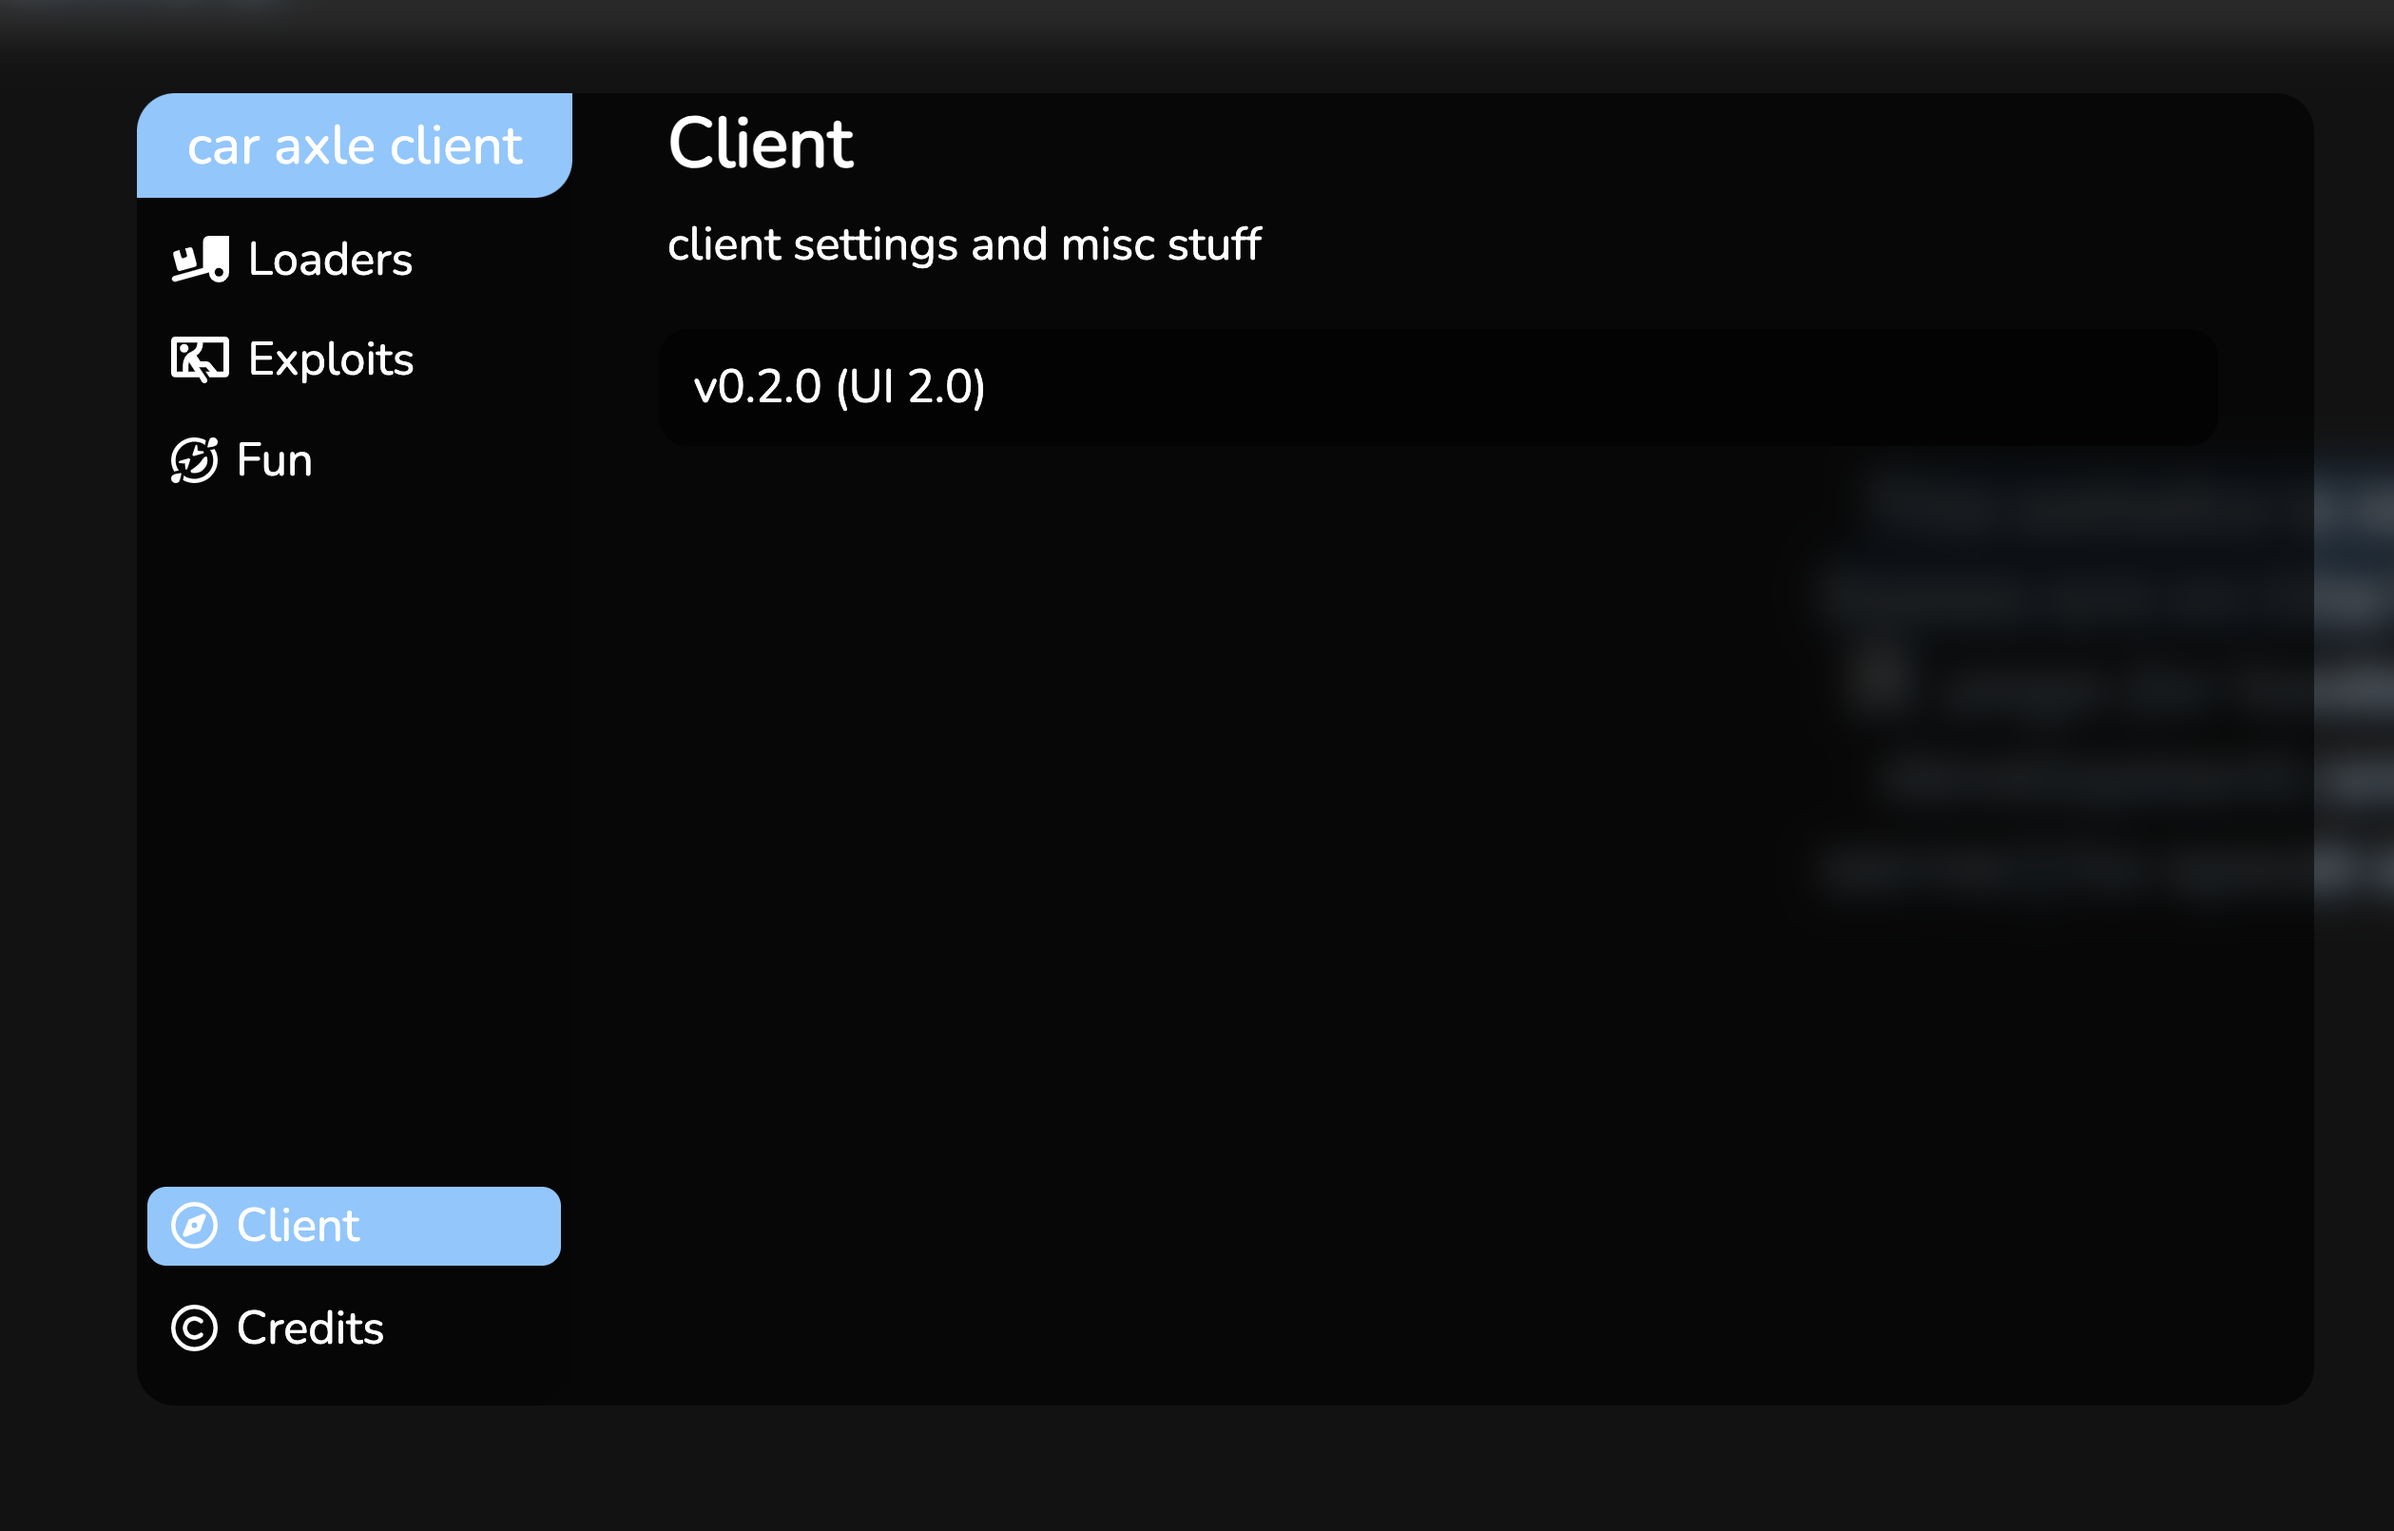
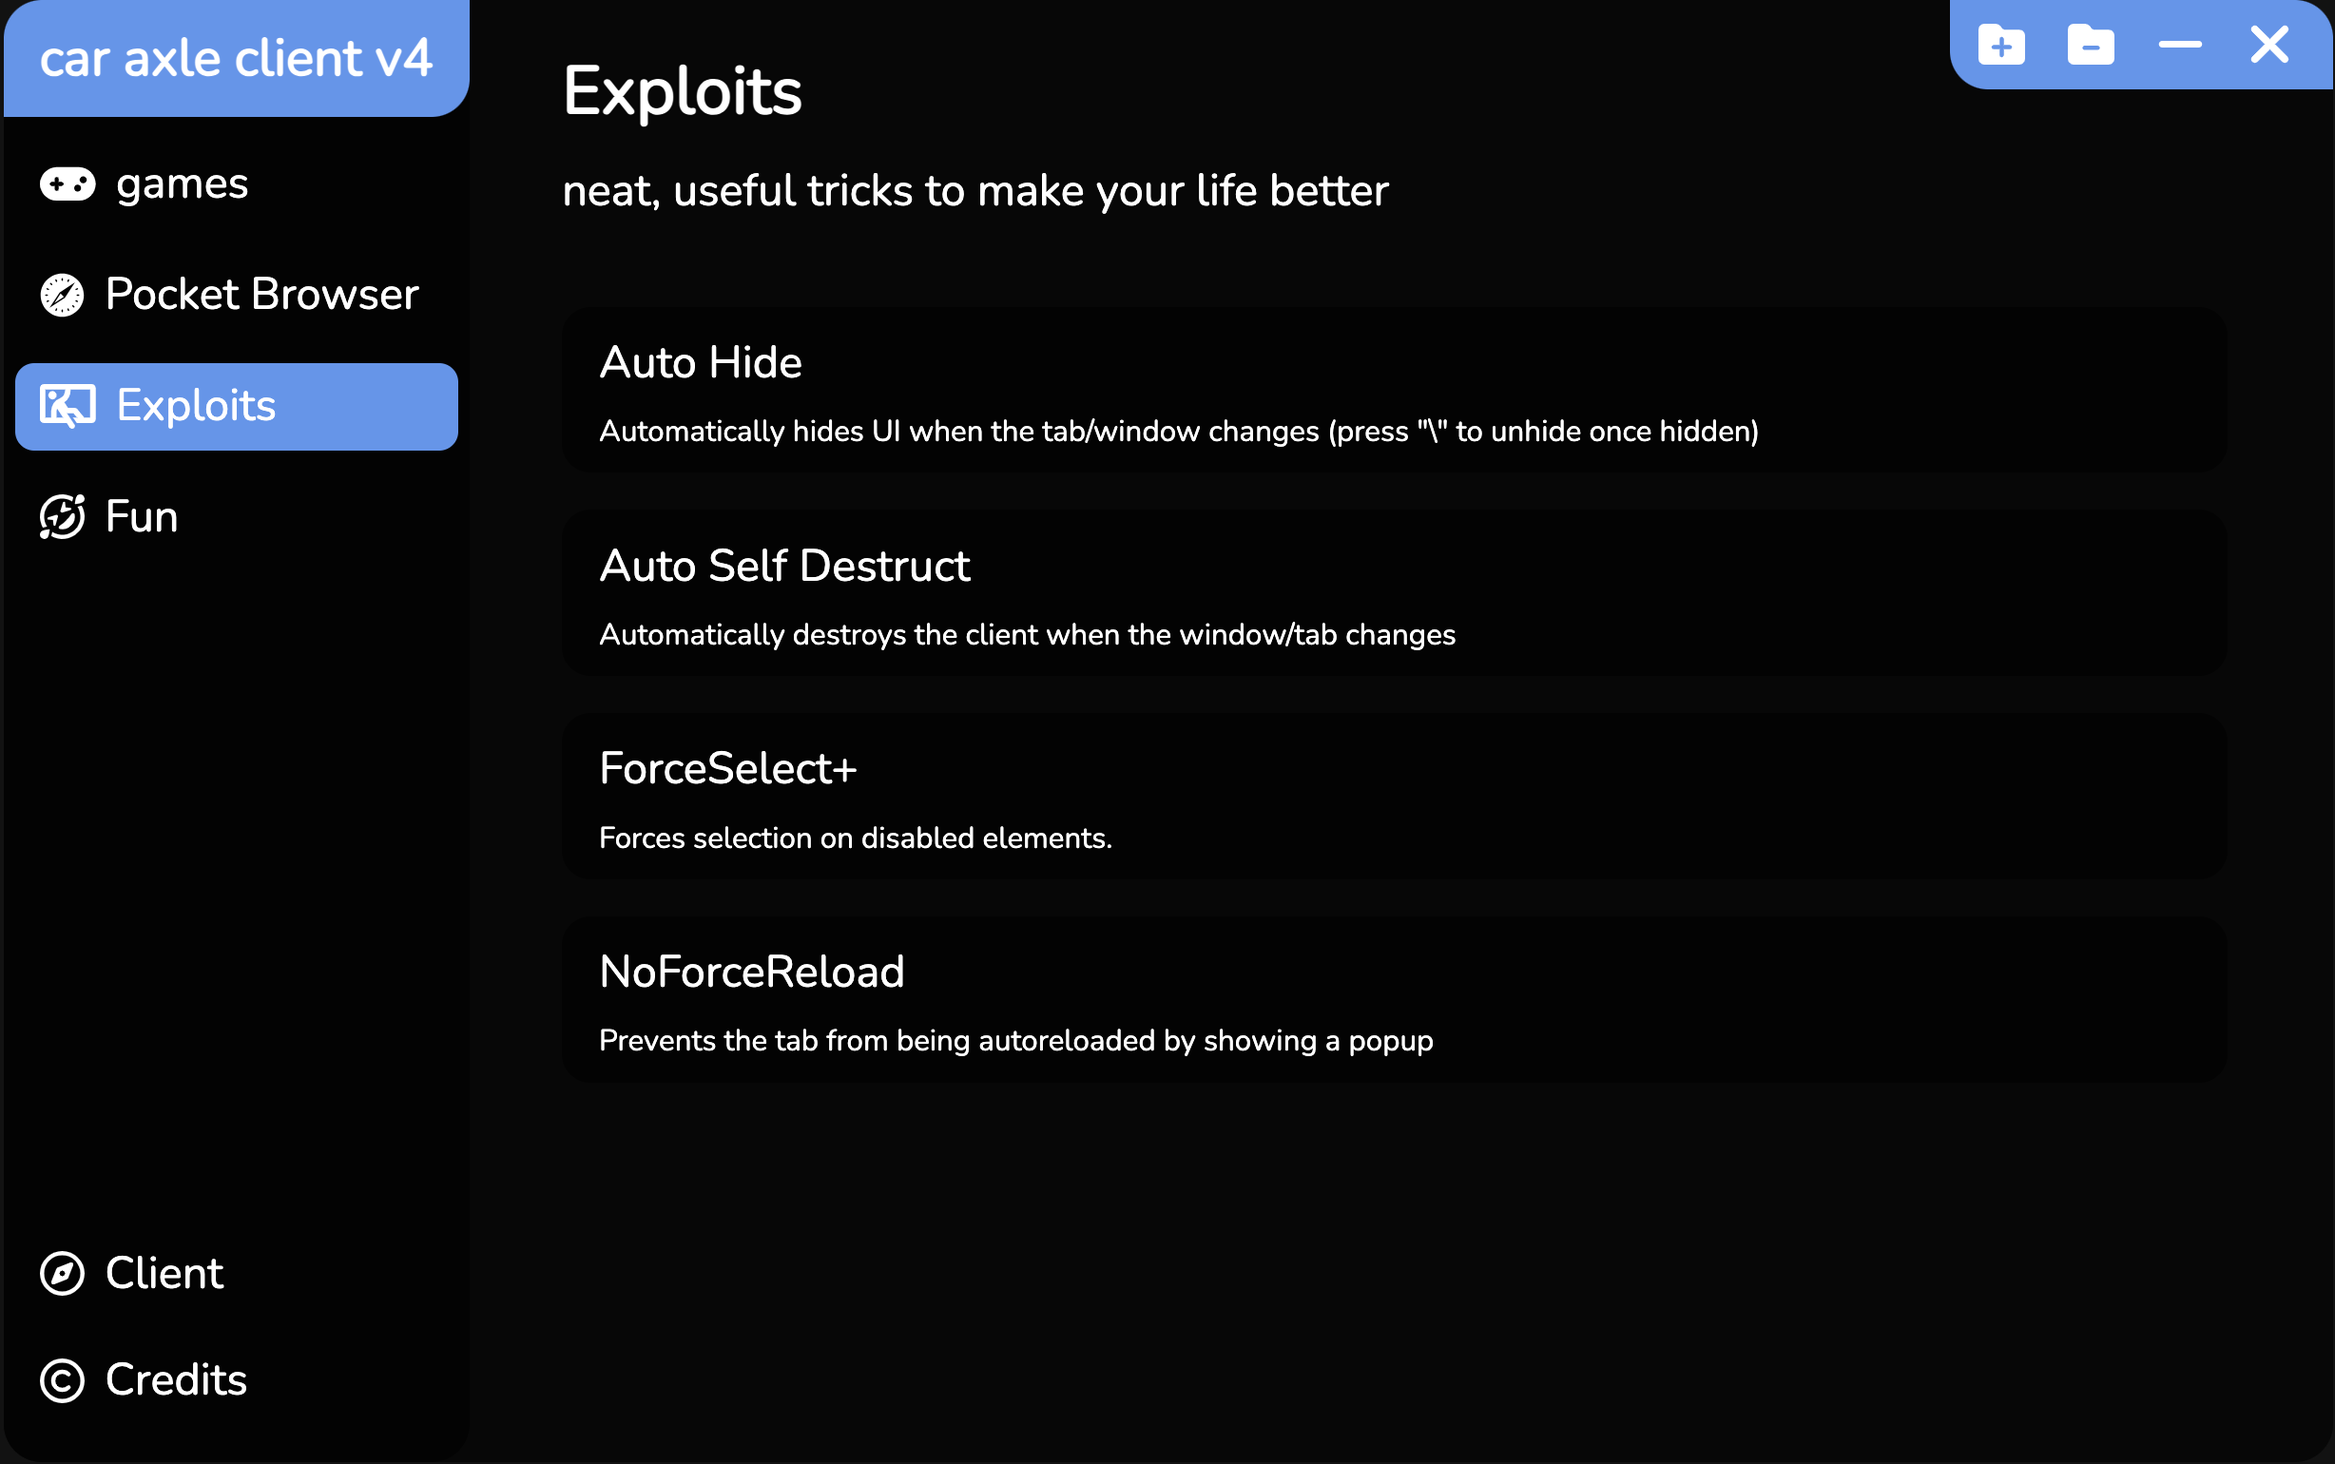
now some new images

diff --git a/src/static/variables.less b/src/static/variables.less
@@ -1,9 +1,9 @@
-@theme: turquoise;
+@theme: cornflowerblue;
 //dark theme
-// @secondary6: rgba(0, 0, 0, 0.6);
-// @secondary2: rgba(0, 0, 0, 0.2);
-// @text: #fff;
+@secondary6: rgba(0, 0, 0, 0.6);
+@secondary2: rgba(0, 0, 0, 0.2);
+@text: #fff;
 // light theme
-@secondary6: rgba(230, 230, 230, 0.6);
-@secondary2: rgba(230, 230, 230, 0.2);
-@text: #000;
+// @secondary6: rgba(230, 230, 230, 0.6);
+// @secondary2: rgba(230, 230, 230, 0.2);
+// @text: #000;

diff --git a/src/components/button.ts.less b/src/components/button.ts.less
@@ -28,6 +28,7 @@
 
     p {
         font-size:1vw;
+        color: @text;
         line-height: 1vh
     }
 }
